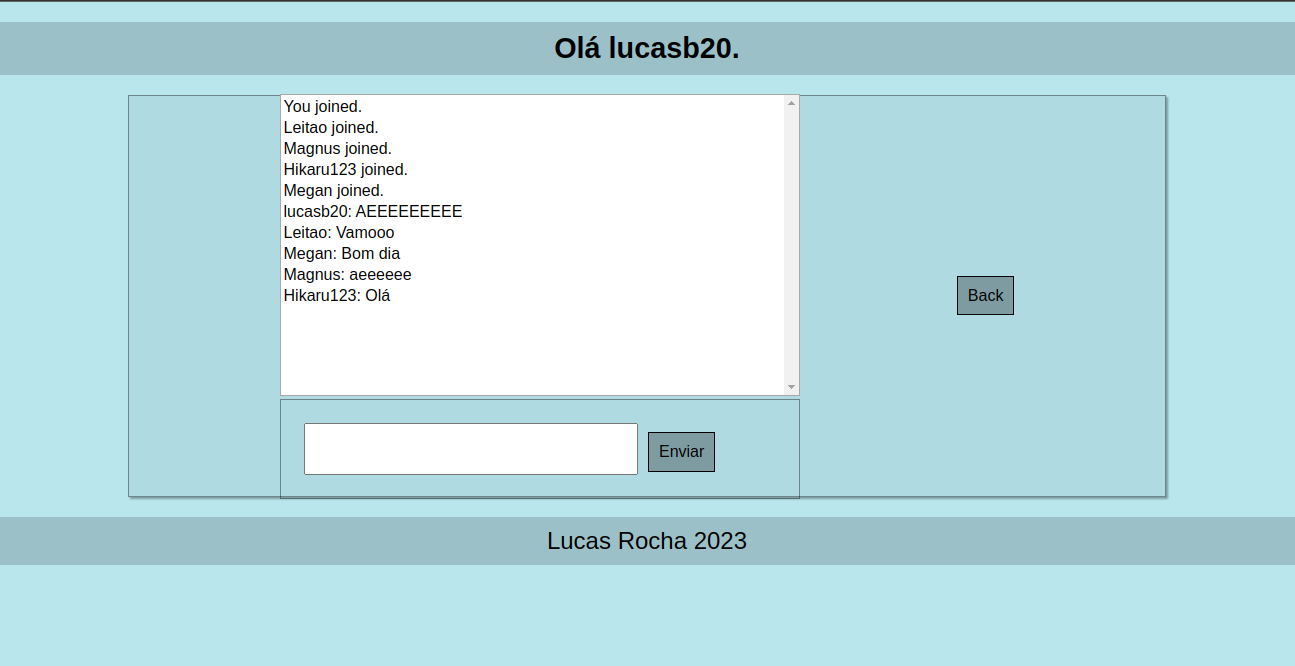
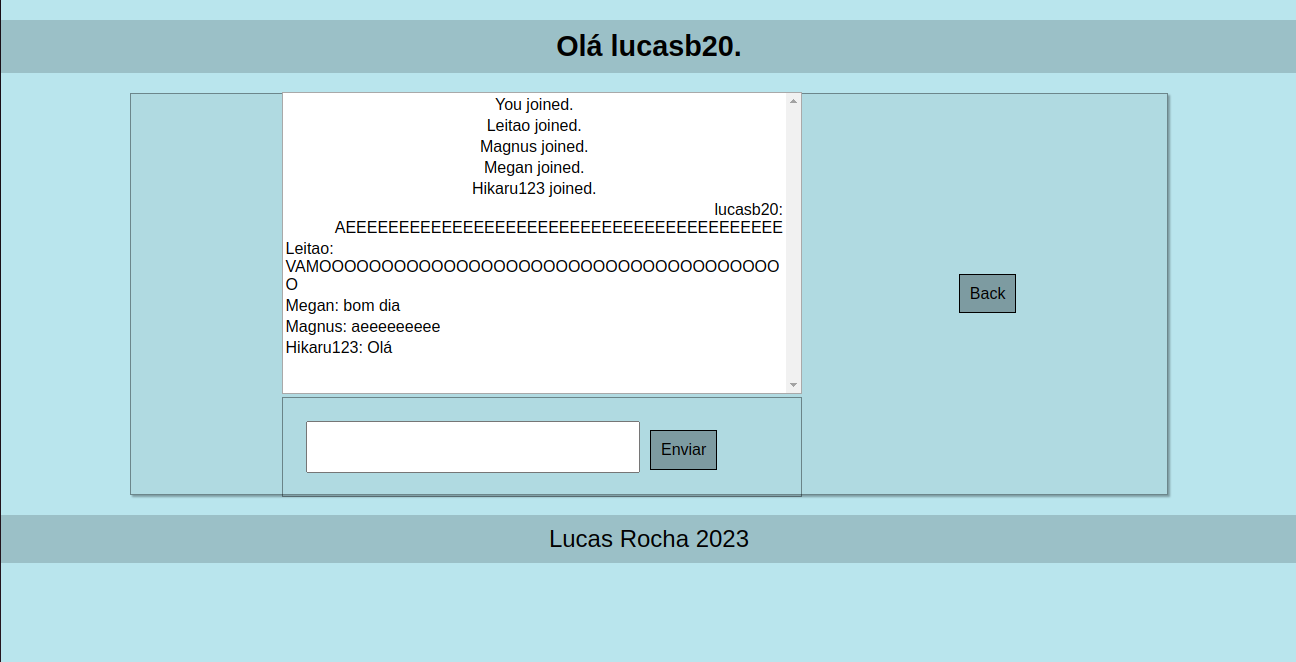
Pequenas alterações visuais.
Agora, no chat público, há um alinhamento dependendo do tipo de mensagem que aparece para você.

Criada também uma view 'geral', só uma view com configurações padrões.

diff --git a/public/js/client.js b/public/js/client.js
@@ -6,7 +6,7 @@ const messageInput = document.querySelector('#message-input')
 
 const username = (document.querySelector('#username').innerHTML).slice(4,-1)
 
-appendMessage('You joined.')
+appendMessage('You joined.','center')
 socket.emit('new-user', username)
 
 socket.on('chat-message', (data) => {
@@ -14,19 +14,20 @@ socket.on('chat-message', (data) => {
 })
 
 socket.on('user-connected', (name) => {
-    appendMessage(`${name} joined.`)
+    appendMessage(`${name} joined.`,'center')
 })
 
 messageForm.addEventListener('submit', (e) => {
     e.preventDefault()
     const message = `${username}: `+ messageInput.value
     socket.emit('send-chat-message',message)
-    appendMessage(message)
+    appendMessage(message,'right')
     messageInput.value = ''
 })
 
-function appendMessage(message){
+function appendMessage(message, options = 'left'){
     const messageElement = document.createElement('li')
     messageElement.innerText = message
+    messageElement.style.textAlign = options
     messageContainer.append(messageElement)
 }

diff --git a/src/auth-routes.js b/src/auth-routes.js
@@ -44,11 +44,19 @@ router.get('/register',(req,res) => {
 })
 
 router.get('/recovery',(req,res) =>{
-    res.send('Blz, me diz aí o email associado a tua conta e a gente conversa.')
+    res.render('geral',{
+        pag:{
+        title: 'recovery',
+        text: 'Blz, me diz aí o email associado a tua conta e a gente conversa.'
+    }})
 })
 
 router.get('/help',(req,res) =>{
-    res.send('É aquela história: Se você precisar de mim, é mesmo que nada.')
+    res.render('geral',{
+        pag:{
+        title: 'help',
+        text: 'É aquela história: Se você precisar de mim, é o mesmo que nada.'
+    }})
 })
 
 module.exports = router

diff --git a/public/css/style3.css b/public/css/style3.css
@@ -74,6 +74,10 @@ footer{
     word-wrap: break-word;
 }
 
+#message-container li{
+    font-size: 1em;
+}
+
 #send-container{
     border: 1px solid rgba(0, 0, 0, 0.397);
     padding: 20px;   
